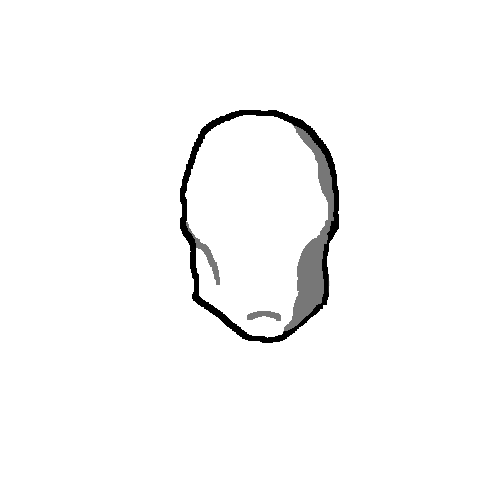
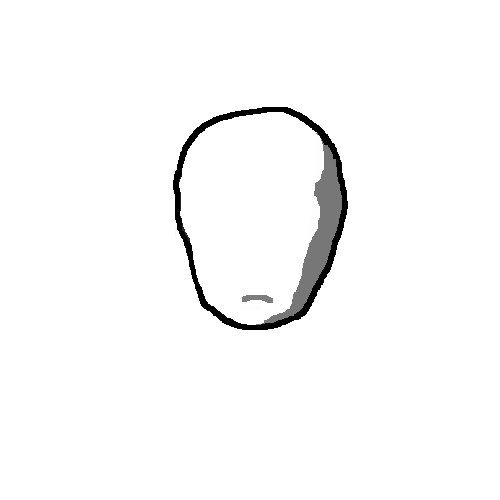
add pattern + beard

Changed region(s): [[0.45, 0.21, 0.72, 0.69], [0.33, 0.21, 0.45, 0.57], [0.36, 0.57, 0.42, 0.63]]

diff --git a/create_avatar.py b/create_avatar.py
@@ -17,14 +17,14 @@ class Character():
         #self.seed=567
         self.rnd=random.Random(int(self.seed))
         self.parts={
-                'backgrounds':{'path':None,'color':None},
-                'bodies':{'path':None,'color':None},
-                'headshapes':{'path':None,'color':None},
-                'eyes':{'path':None,'color':None},
-                'glasses':{'path':None,'color':None},
-                'mouths':{'path':None,'color':None},
-                'moustaches':{'path':None,'color':None},
-                'hats':{'path':None,'color':None}
+                'backgrounds':{'path':None,'color':None,'pattern':False,'pattern-color':None},
+                'bodies':{'path':None,'color':None,'pattern':True,'pattern-color':None},
+                'headshapes':{'path':None,'color':None,'pattern':False,'pattern-color':None},
+                'eyes':{'path':None,'color':None,'pattern':False,'pattern-color':None},
+                'glasses':{'path':None,'color':None,'pattern':False,'pattern-color':None},
+                'mouths':{'path':None,'color':None,'pattern':False,'pattern-color':None},
+                'moustaches':{'path':None,'color':None,'pattern':False,'pattern-color':None},
+                'hats':{'path':None,'color':None,'pattern':True,'pattern-color':None}
                 }
         self.generate_traits()
         #
@@ -38,6 +38,16 @@ class Character():
                 int(self.rnd.random()*255),
                 int(self.rnd.random()*255),
                 int(self.rnd.random()*255))
+            item[1]['pattern-color']=(
+                int(self.rnd.random()*255),
+                int(self.rnd.random()*255),
+                int(self.rnd.random()*255))
+            files = os.listdir('./resources/patterns')
+            if(item[1]['pattern']):
+                item[1]['pattern']='resources/patterns/'+self.rnd.choice(files)
+            else:
+                item[1]['pattern']='resources/patterns/0.png'
+
         print(self.to_string())
     def to_string(self):
         """Printable output for the character."""
@@ -158,14 +168,118 @@ class Application(tk.Tk):
         img = img.convert('RGBA')
         return np.array(img)
         #
+    def image_file2dic(self,filepath,dic,character,trait):
+        """set Dic from image filepath."""
+        light=200
+        dark=10
+        data = self.image_file2data(filepath)
+        datapattern = self.image_file2data(os.getcwd()+"/"+character.parts[trait]['pattern'])
+        dicpattern={}
+        dicpattern['data']=datapattern
+        dicpattern['red'],\
+                dicpattern['green'],\
+                dicpattern['blue'],\
+                dicpattern['alpha']=dicpattern['data'].T
+        #
+        dic['data']=data
+        dic['red'],\
+                dic['green'],\
+                dic['blue'],\
+                dic['alpha']=dic['data'].T
+        dic['black_areas'] = \
+                (dic['red'] < dark)\
+                &(dic['green'] < dark)\
+                &(dic['blue'] < dark) \
+                & (dic['alpha'] > 200)
+        dic['white_areas'] = \
+                (dic['red'] > light)\
+                &(dic['green'] > light)\
+                &(dic['blue'] > light) \
+                & (dic['alpha'] > 200)
+        dic['transp_areas'] = \
+                (dic['alpha'] < 10)\
+                |((dic['red'] < dark)\
+                &(dic['green'] < dark)\
+                &(dic['blue'] < dark))
+        dic['grey_areas'] = \
+                (dic['red'] >=dark)\
+                &(dic['red'] <=light)\
+                &(dic['green'] >=dark)\
+                &(dic['green'] <=light)\
+                &(dic['blue'] >=dark)\
+                &(dic['blue'] <=light)
+        dic['green_areas'] = \
+                (dic['red'] == 0)\
+                &(dic['green'] == 255)\
+                &(dic['blue'] == 0)
+        dic['pattern_areas'] = \
+                (dicpattern['red'] == 0)\
+                &(dicpattern['green'] == 0)\
+                &(dicpattern['blue'] == 255)
+        dic['red_areas'] = \
+                (dic['red'] == 255)\
+                &(dic['green'] == 0)\
+                &(dic['blue'] == 0)
+    @staticmethod
+    def data2dic(data,dic):
+        #update dictionary with data
+        light=200
+        dark=10
+        dic['red'],\
+                dic['green'],\
+                dic['blue'],\
+                dic['alpha']=data.T
+        dic['black_areas'] = \
+                (dic['red'] < dark)\
+                &(dic['green'] < dark)\
+                &(dic['blue'] < dark) \
+                & (dic['alpha'] > 200)
+        dic['white_areas'] = \
+                (dic['red'] > light)\
+                &(dic['green'] > light)\
+                &(dic['blue'] > light) \
+                & (dic['alpha'] > 200)
+        dic['transp_areas'] = \
+                (dic['alpha'] < 10)\
+                |((dic['red'] < dark)\
+                &(dic['green'] < dark)\
+                &(dic['blue'] < dark))
+        dic['grey_areas'] = \
+                (dic['red'] >=dark)\
+                &(dic['red'] <=light)\
+                &(dic['green'] >=dark)\
+                &(dic['green'] <=light)\
+                &(dic['blue'] >=dark)\
+                &(dic['blue'] <=light)
+        dic['green_areas'] = \
+                (dic['red'] == 0)\
+                &(dic['green'] == 255)\
+                &(dic['blue'] == 0)
+        dic['red_areas'] = \
+                (dic['red'] == 255)\
+                &(dic['green'] == 0)\
+                &(dic['blue'] == 0)
+
+    def set_trait_pattern2dic(self,character,trait,datas):
+        """set pattern of a trait into dictionary datas."""
+        datapattern = self.image_file2data(os.getcwd()+"/"+character.parts[trait]['pattern'])
+        dicpattern={}
+        dicpattern['data']=datapattern
+        dicpattern['red'],\
+                dicpattern['green'],\
+                dicpattern['blue'],\
+                dicpattern['alpha']=dicpattern['data'].T
+        datas[trait]['pattern_areas'] = \
+                (dicpattern['red'] == 0)\
+                &(dicpattern['green'] == 0)\
+                &(dicpattern['blue'] == 255)
+
     def draw_char(self,character=None):
         """Draw a Character."""
         self.clear(self.canvas)
         if character is None :
             character=self.current_character
         for trait in character.parts:
-            light=200
-            dark=10
             #
             datas={
                     trait:{'data':None,
@@ -178,7 +292,9 @@ class Application(tk.Tk):
                         'transp_areas':None,
                         'red_areas':None,
                         'green_areas':None,
-                        'grey_areas':None
+                        'grey_areas':None,
+                        'pattern_areas':None,
+                        'pattern_color':None
                         },
                     'eyes':{'data':None},
                     'headshapes':{'data':None},
@@ -186,42 +302,7 @@ class Application(tk.Tk):
                     }
             for item in datas.items():
                 #print(item[1]['data']is datas[item[0]]['data'])
-                data = self.image_file2data(os.getcwd()+"/"+character.parts[item[0]]['path'])
-                item[1]['data']=data
-                item[1]['red'],\
-                        item[1]['green'],\
-                        item[1]['blue'],\
-                        item[1]['alpha']=item[1]['data'].T
-                item[1]['black_areas'] = \
-                        (item[1]['red'] < dark)\
-                        &(item[1]['green'] < dark)\
-                        &(item[1]['blue'] < dark) \
-                        & (item[1]['alpha'] > 200)
-                item[1]['white_areas'] = \
-                        (item[1]['red'] > light)\
-                        &(item[1]['green'] > light)\
-                        &(item[1]['blue'] > light) \
-                        & (item[1]['alpha'] > 200)
-                item[1]['transp_areas'] = \
-                        (item[1]['alpha'] < 10)\
-                        |((item[1]['red'] < dark)\
-                        &(item[1]['green'] < dark)\
-                        &(item[1]['blue'] < dark))
-                item[1]['grey_areas'] = \
-                        (item[1]['red'] >=dark)\
-                        &(item[1]['red'] <=light)\
-                        &(item[1]['green'] >=dark)\
-                        &(item[1]['green'] <=light)\
-                        &(item[1]['blue'] >=dark)\
-                        &(item[1]['blue'] <=light)
-                item[1]['green_areas'] = \
-                        (item[1]['red'] == 0)\
-                        &(item[1]['green'] == 255)\
-                        &(item[1]['blue'] == 0)
-                item[1]['red_areas'] = \
-                        (item[1]['red'] == 255)\
-                        &(item[1]['green'] == 0)\
-                        &(item[1]['blue'] == 0)
+                self.image_file2dic(os.getcwd()+"/"+character.parts[item[0]]['path'],item[1],character,trait)
             #
             grey_replacement=character.parts[trait]['color']
             grey_replacement=(grey_replacement[0]*0.75,
@@ -269,10 +350,65 @@ class Application(tk.Tk):
                     ('eyes','white_areas'),
                     (trait,'red_areas'),
                     red_replacement)
+            pattern_color=character.parts[trait]['pattern-color']
+            pattern_color_eyes=character.parts['eyes']['pattern-color']
+            pattern_color_glasses=character.parts['glasses']['pattern-color']
+            pattern_color_headshapes=character.parts['headshapes']['pattern-color']
+            pattern_shadow=(pattern_color[0]*0.75,
+                               pattern_color[1]*0.75,
+                               pattern_color[2]*0.75,
+                               255)
+            pattern_shadow_eyes=(pattern_color_eyes[0]*0.75,
+                               pattern_color_eyes[1]*0.75,
+                               pattern_color_eyes[2]*0.75,
+                               255)
+            pattern_shadow_glasses=(pattern_color_glasses[0]*0.75,
+                               pattern_color_glasses[1]*0.75,
+                               pattern_color_glasses[2]*0.75,
+                               255)
+            pattern_shadow_headshapes=(pattern_color_headshapes[0]*0.75,
+                               pattern_color_headshapes[1]*0.75,
+                               pattern_color_headshapes[2]*0.75,
+                               255)
             green_replacement=(green_replacement[0]*0.75,
                                green_replacement[1]*0.75,
                                green_replacement[2]*0.75,
                                255)
+            pattern_shadow_headshapes=(pattern_color_headshapes[0]*0.75,
+                               pattern_color_headshapes[1]*0.75,
+                               pattern_color_headshapes[2]*0.75,
+                               255)
+            self.replace_color(datas,
+                    trait,
+                    (trait,'pattern_areas'),
+                    (trait,'grey_areas'),
+                    pattern_shadow)
+            self.replace_color(datas,
+                    trait,
+                    (trait,'pattern_areas'),
+                    (trait,'white_areas'),
+                    pattern_color)
+            self.set_trait_pattern2dic(character,'headshapes',datas)
+            self.set_trait_pattern2dic(character,'eyes',datas)
+            self.set_trait_pattern2dic(character,'glasses',datas)
+            
+            self.replace_color(datas,
+                    trait,
+                    ('eyes','pattern_areas'),
+                    (trait,'red_areas'),
+                    pattern_shadow_eyes)
+ 
+            self.replace_color(datas,
+                    trait,
+                    ('glasses','pattern_areas'),
+                    (trait,'red_areas'),
+                    pattern_shadow_glasses)
+ 
+            self.replace_color(datas,
+                    trait,
+                    ('headshapes','pattern_areas'),
+                    (trait,'red_areas'),
+                    pattern_shadow_headshapes)
             self.replace_color(datas,
                     trait,
                     ('headshapes','grey_areas'),
@@ -337,7 +473,7 @@ class Application(tk.Tk):
         blank=(datas['eyes']['red']==-1)
         np.logical_and(datas[area1[0]][area1[1]],datas[area2[0]][area2[1]],out=blank)
         if len(color)==3 :
-            datas[trait]['data'][...,:-1][blank.T]=color
+            datas[trait]['data'][...,:-1][blank.T]=(color)
         else:
             datas[trait]['data'][...][blank.T]=(color)
 
